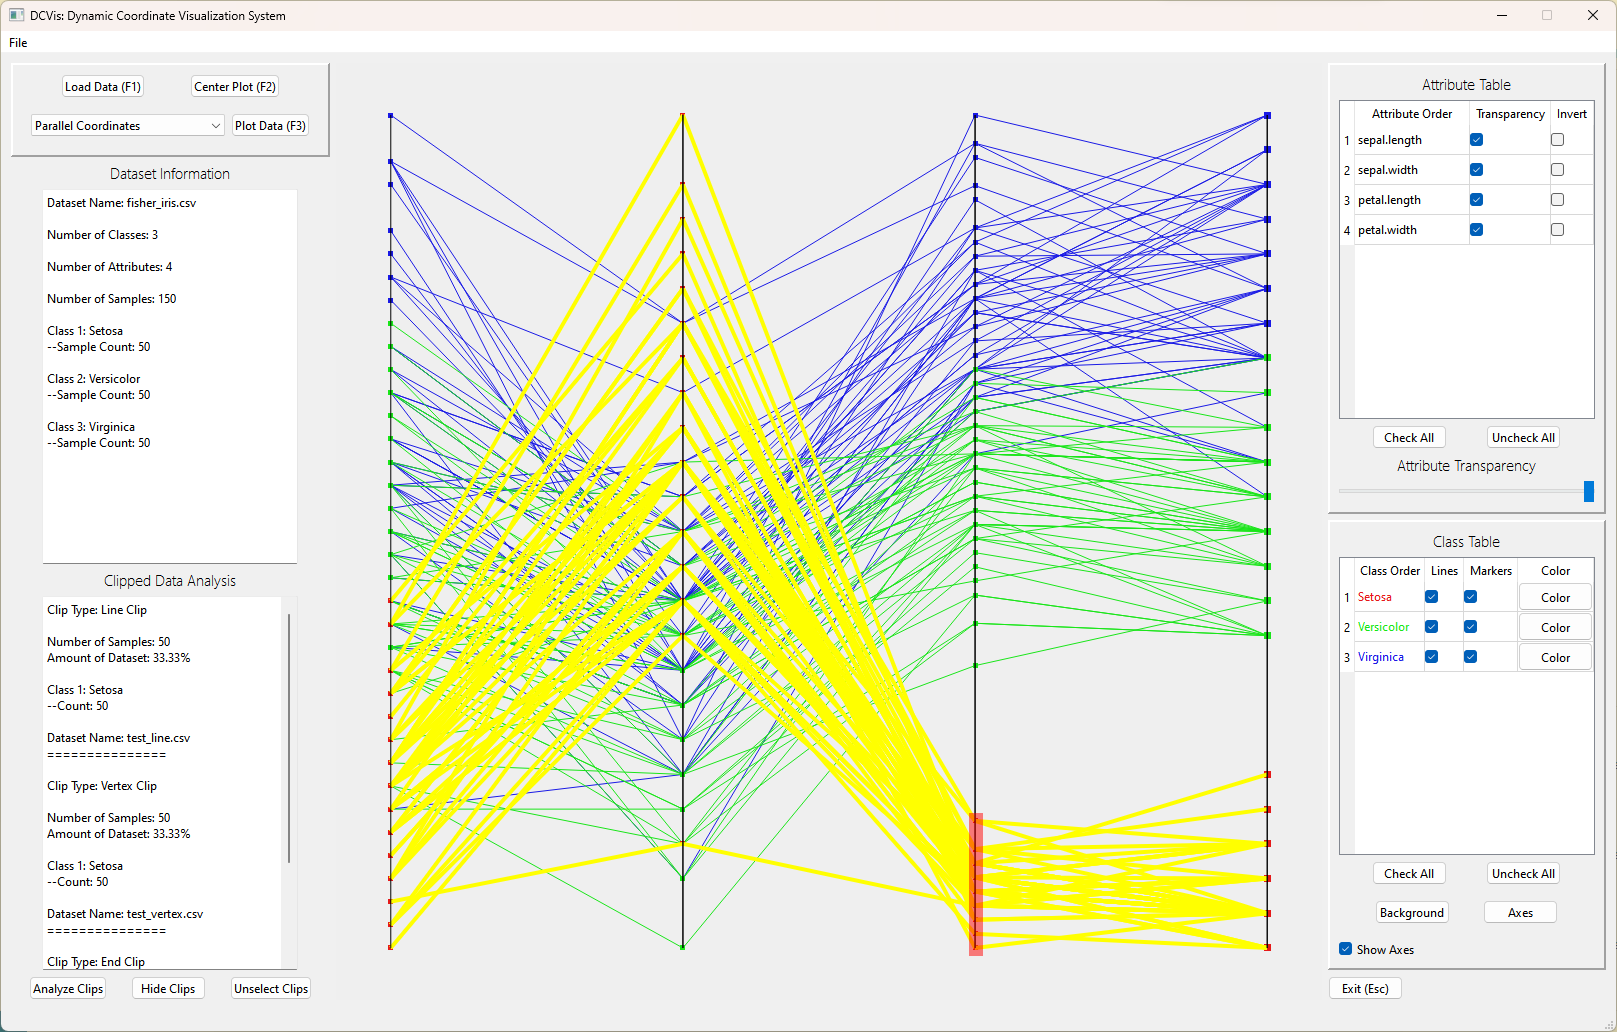
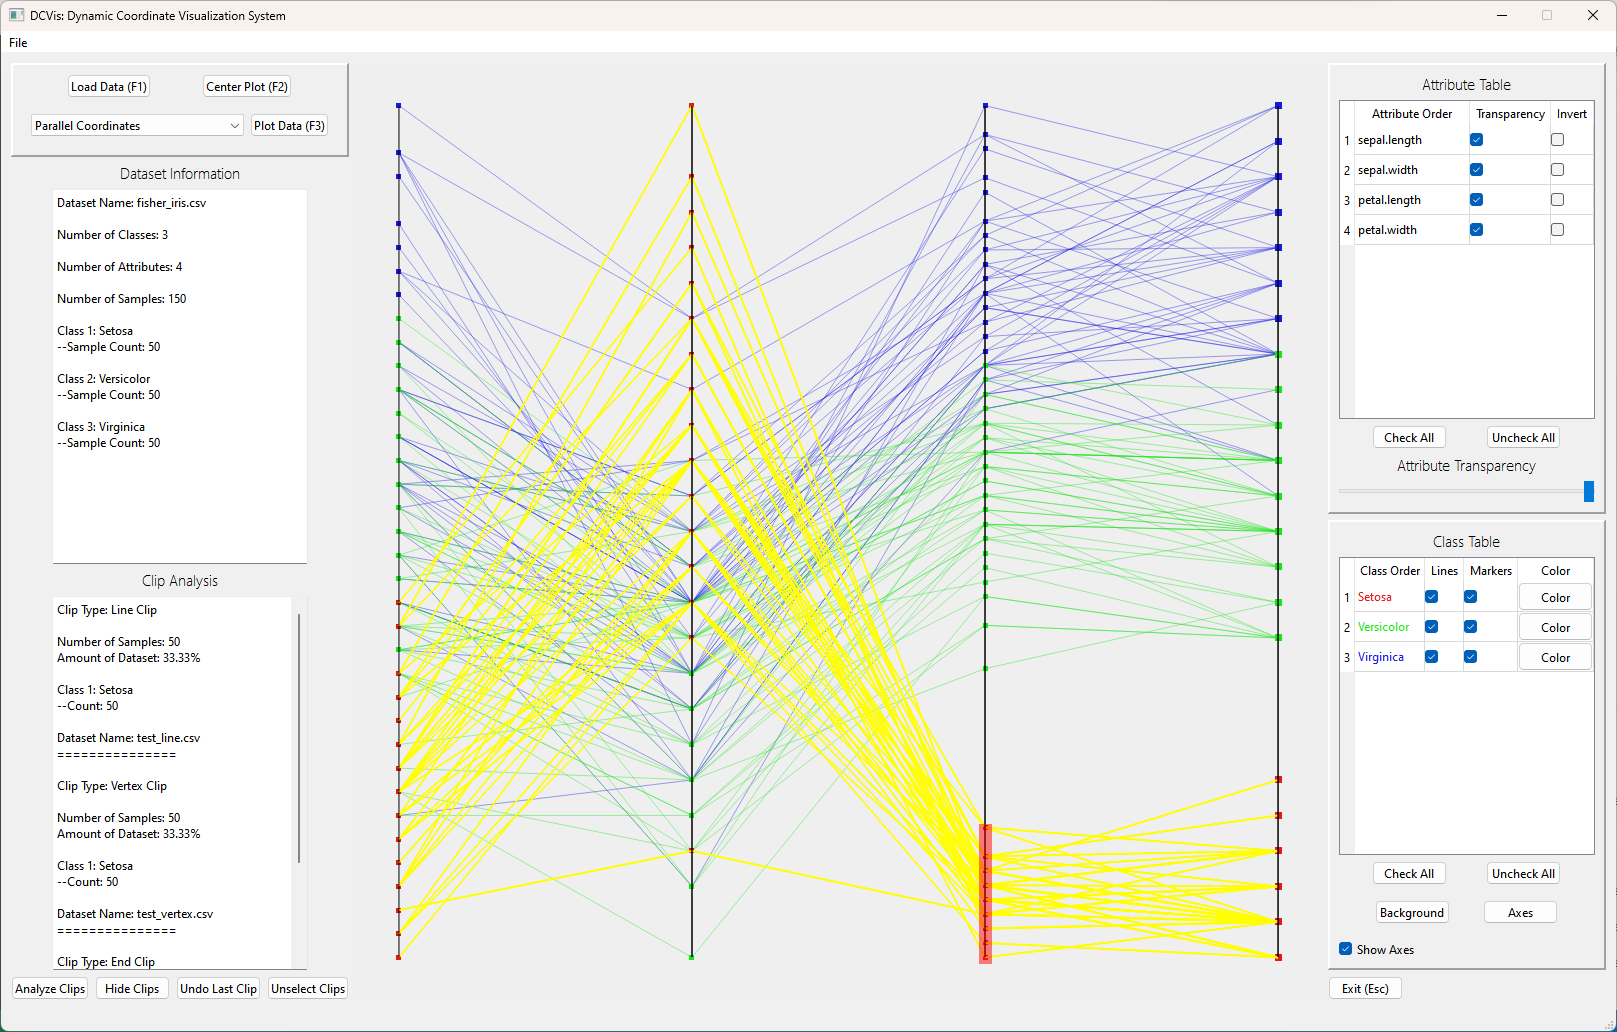
bugfix & README

diff --git a/CLASS_TABLE.py b/CLASS_TABLE.py
@@ -44,7 +44,7 @@ def table_swap(table, dataset, plot, event):
 
     plot.update()
 
-# main table class
+
 class ClassTable(QtWidgets.QTableWidget):
     refresh_GUI = pyqtSignal()
 
@@ -105,9 +105,10 @@ class Button(QtWidgets.QPushButton):
 
     def color_dialog(self):
         color = QtWidgets.QColorDialog.getColor()
-        rgb = color.getRgb()
-        self.cell.setForeground(QBrush(QColor(rgb[0], rgb[1], rgb[2])))
-        self.data.class_colors[self.index] = [rgb[0], rgb[1], rgb[2]]
+        if color.isValid():
+            rgb = color.getRgb()
+            self.cell.setForeground(QBrush(QColor(rgb[0], rgb[1], rgb[2])))
+            self.data.class_colors[self.index] = [rgb[0], rgb[1], rgb[2]]
 
 
 # class for checkbox in the class table
@@ -134,7 +135,3 @@ class CheckBox(QtWidgets.QCheckBox):
                 self.data.active_markers[self.index] = False
 
         self.r.emit()
-
-
-
-

diff --git a/PLOT.py b/PLOT.py
@@ -314,13 +314,11 @@ def draw_axes(dataset, axis_vao, color):
         for class_index in range(dataset.class_count):
             base_radius = (dataset.attribute_count / (2 * np.pi))
 
-            # Adjust the radius based on class index
             if class_index < 2:
                 # First two classes share the first axis
                 radius_factor = 1
             else:
-                # Subsequent classes each get their own axis, scaling geometrically
-                scale_factor = 2.1  # Adjust this factor to control the rate of radius increase
+                scale_factor = 2.1
                 radius_factor = scale_factor * (class_index-1)
 
             radius = base_radius * radius_factor

diff --git a/README.md b/README.md
@@ -16,6 +16,10 @@ This visualization tool features multiple visualisation methods:
 - Static Circular Coordinates (SCC) ![SCC](/screenshots/SCC.png)
 - Dynamic Circular Coordinates (DCC) ![DCC](/screenshots/DCC.png)
 
+Attributes may be inverted to further engineer visualized features.
+Iris in SPC with X1, X2 inverted:
+![SPC inverted](/screenshots/SPC_INVERT_X1_X2.png)
+
 ## Datasets
 
 Dataset requirements:
@@ -50,7 +54,7 @@ Datasets included:
 - The cells in the class and attribute tables can be dragged and dropped to switch their orders.
 - The slider below the attribute table will change the transparency of the attribute markers that are not selected in the highlight column.
 
-Iris on PC with 4D Fisher Iris dataset of 150 data points with Setosa class highlighted.
+Iris in PC with Setosa class highlighted and alpha brushing effect:
 ![Classify Setosa](/screenshots/IRIS_SETOSA_CLASSIFY.png)
 
 ## Language and Libraries
